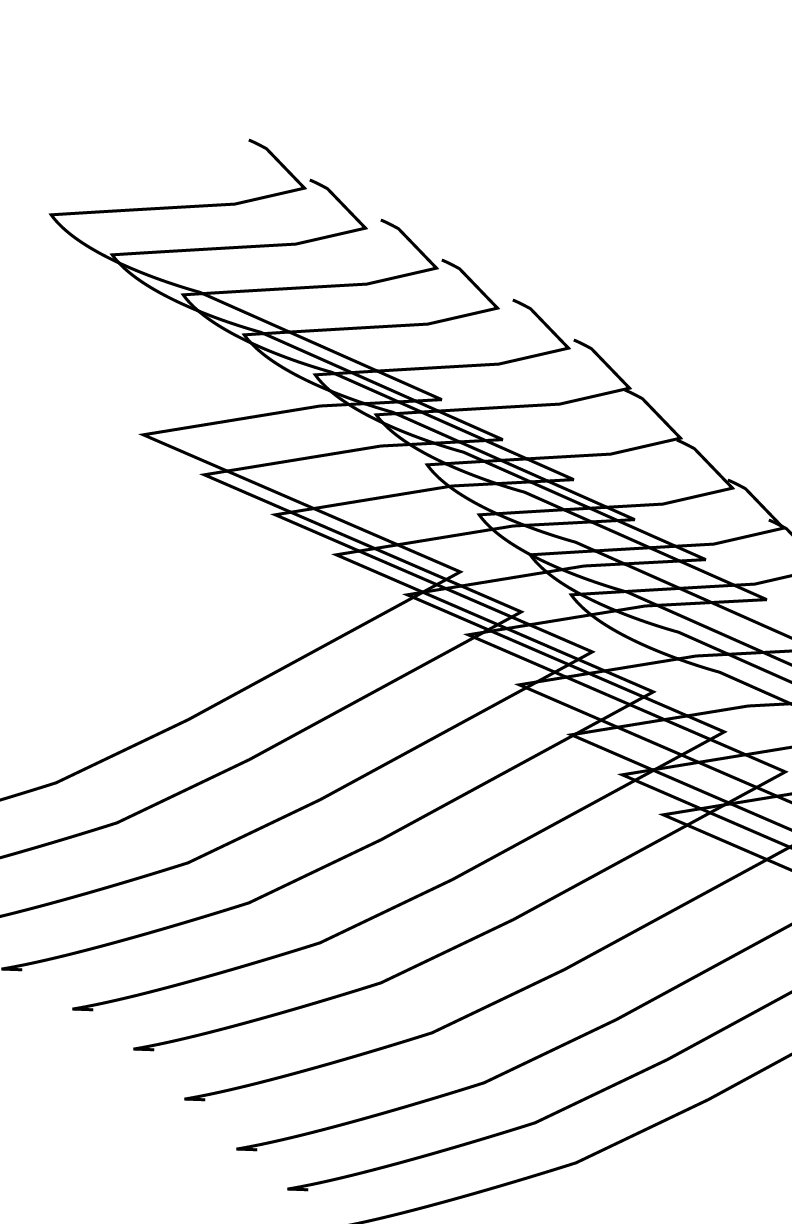
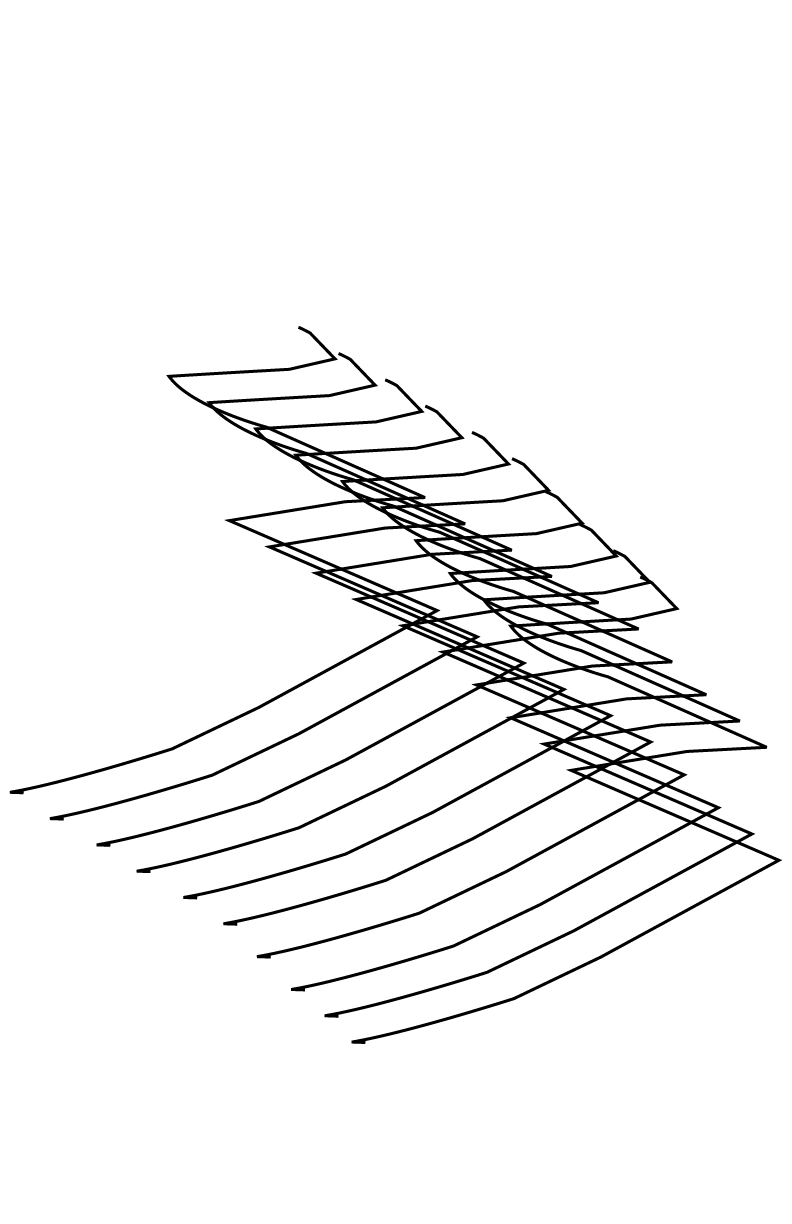
got it to work a little more smoothly

diff --git a/app.js b/app.js
@@ -2,73 +2,125 @@ var counter;
 
 
 $('body').keypress(function(e) { //ditects weather I pressed a key
-  console.log(e.keyCode); // keyCode is the actual key pressed
+    console.log(e.keyCode); // keyCode is the actual key pressed
 
 
-  if (counter < 8) { //see if the storage has less than 8 items in it
-    counter ++;
+    if (counter < 8) { //see if the storage has less than 8 items in it
+        counter++;
 
-    if (e.keyCode == 97) { // if any data is this # than ...	// console.log(data);
-		$("#image").append('<img src="images/letter.png">');} //add image}
-		if (e.keyCode == 98) {
-		$('#image2').append('<img src="images/letter2.png">');}
-    if (e.keyCode == 99) {
-  		$('#image3').append('<img src="images/letter3.png">');}
-    if (e.keyCode == 100) {
-      $('#image4').append('<img src="images/letter4.png">');}
-    if (e.keyCode == 101) {
-      $('#image').append('<img src="images/letter5.png">');}
-    if (e.keyCode == 102) {
-      $('#image2').append('<img src="images/letter6.png">');}
-    if (e.keyCode == 103) {
-      $('#image3').append('<img src="images/letter7.png">');}
-    if (e.keyCode == 104) {
-      $('#image4').append('<img src="images/letter8.png">');}
-    if (e.keyCode == 105) {
-      $('#image').append('<img src="images/letter9.png">');}
-    if (e.keyCode == 106) {
-      $('#image2').append('<img src="images/letter10.png">');}
-    if (e.keyCode == 107) {
-      $('#image3').append('<img src="images/letter11.png">');}
-    if (e.keyCode == 108) {
-      $('#image4').append('<img src="images/letter12.png">');}
-    if (e.keyCode == 109) {
-      $('#image').append('<img src="images/letter13.png">');}
-    if (e.keyCode == 110) {
-      $('#image1').append('<img src="images/letter14.png">');}
-      if (e.keyCode == 111) {
-        $('#image2').append('<img src="images/letter6.png">');}
-      if (e.keyCode == 112) {
-        $('#image3').append('<img src="images/letter7.png">');}
-      if (e.keyCode == 113) {
-        $('#image4').append('<img src="images/letter8.png">');}
-      if (e.keyCode == 114) {
-        $('#image').append('<img src="images/letter14.png">');}
-      if (e.keyCode == 115) {
-        $('#image2').append('<img src="images/letter13.png">');}
-      if (e.keyCode == 116) {
-        $('#image3').append('<img src="images/letter6.png">');}
-      if (e.keyCode == 117) {
-        $('#image4').append('<img src="images/letter7.png">');}
-      if (e.keyCode == 118) {
-        $('#image').append('<img src="images/letter8.png">');}
-      if (e.keyCode == 119) {
-        $('#image1').append('<img src="images/letter9.png">');}
+        if (e.keyCode == 97) { // if any data is this # than ...	// console.log(data);
+            $('#image').append('<img src="images/letter.png">');
+						$( 'img' ).css({"height":"60%","position":"fixed"} );
+        } //add image}
+        if (e.keyCode == 98) {
+            $('#image2').append('<img src="images/letter2.png">');
+							$( 'img' ).css({"height":"60%","position":"fixed"} );
+        }
+        if (e.keyCode == 99) {
+            $('#image3').append('<img src="images/letter3.png">');
+							$( 'img' ).css({"height":"60%","position":"fixed"} );
+        }
+        if (e.keyCode == 100) {
+            $('#image4').append('<img src="images/letter4.png">');
+							$( 'img' ).css({"height":"60%","position":"fixed"} );
+        }
+        if (e.keyCode == 101) {
+            $('#image').append('<img src="images/letter5.png">');
+							$( 'img' ).css({"height":"60%","position":"fixed"} );
+        }
+        if (e.keyCode == 102) {
+            $('#image2').append('<img src="images/letter6.png">');
+							$( 'img' ).css({"height":"60%","position":"fixed"} );
+        }
+        if (e.keyCode == 103) {
+            $('#image3').append('<img src="images/letter7.png">');
+							$( 'img' ).css({"height":"60%","position":"fixed"} );
+        }
+        if (e.keyCode == 104) {
+            $('#image4').append('<img src="images/letter8.png">');
+							$( 'img' ).css({"height":"60%","position":"fixed"} );
+        }
+        if (e.keyCode == 105) {
+            $('#image').append('<img src="images/letter9.png">');
+							$( 'img' ).css({"height":"60%","position":"fixed"} );
+        }
+        if (e.keyCode == 106) {
+            $('#image2').append('<img src="images/letter10.png">');
+							$( 'img' ).css({"height":"60%","position":"fixed"} );
+        }
+        if (e.keyCode == 107) {
+            $('#image3').append('<img src="images/letter11.png">');
+							$( 'img' ).css({"height":"60%","position":"fixed"} );
+        }
+        if (e.keyCode == 108) {
+            $('#image4').append('<img src="images/letter12.png">');
+							$( 'img' ).css({"height":"60%","position":"fixed"} );
+        }
+        if (e.keyCode == 109) {
+            $('#image').append('<img src="images/letter13.png">');
+							$( 'img' ).css({"height":"60%","position":"fixed"} );
+        }
+        if (e.keyCode == 110) {
+            $('#image2').append('<img src="images/letter14.png">');
+							$( 'img' ).css({"height":"60%","position":"fixed"} );
+        }
+        if (e.keyCode == 111) {
+            $('#image3').append('<img src="images/letter15.png">');
+							$( 'img' ).css({"height":"60%","position":"fixed"} );
+        }
+        if (e.keyCode == 112) {
+            $('#image4').append('<img src="images/letter16.png">');
+							$( 'img' ).css({"height":"60%","position":"fixed"} );
+        }
+        if (e.keyCode == 113) {
+            $('#image').append('<img src="images/letter17.png">');
+							$( 'img' ).css({"height":"60%","position":"fixed"} );
+        }
+        if (e.keyCode == 114) {
+            $('#image2').append('<img src="images/letter18.png">');
+							$( 'img' ).css({"height":"60%","position":"fixed"} );
+        }
+        if (e.keyCode == 115) {
+            $('#image2').append('<img src="images/letter19.png">');
+							$( 'img' ).css({"height":"60%","position":"fixed"} );
+        }
+        if (e.keyCode == 116) {
+            $('#image3').append('<img src="images/letter20.png">');
+							$( 'img' ).css({"height":"60%","position":"fixed"} );
+        }
+        if (e.keyCode == 117) {
+            $('#image4').append('<img src="images/letter21.png">');
+							$( 'img' ).css({"height":"60%","position":"fixed"} );
+        }
+        if (e.keyCode == 118) {
+            $('#image').append('<img src="images/letter22.png">');
+							$( 'img' ).css({"height":"60%","position":"fixed"} );
+        }
+        if (e.keyCode == 119) {
+            $('#image2').append('<img src="images/letter23.png">');
+							$( 'img' ).css({"height":"60%","position":"fixed"} );
+        }
         if (e.keyCode == 120) {
-          $('#image4').append('<img src="images/letter10.png">');}
+            $('#image3').append('<img src="images/letter24.png">');
+							$( 'img' ).css({"height":"60%","position":"fixed"} );
+        }
         if (e.keyCode == 121) {
-          $('#image').append('<img src="images/letter11.png">');}
+            $('#image4').append('<img src="images/letter25.png">');
+							$( 'img' ).css({"height":"60%","position":"fixed"} );
+        }
         if (e.keyCode == 122) {
-          $('#image1').append('<img src="images/letter12.png">');}
+            $('#image2').append('<img src="images/letter26.png">');
+							$( 'img' ).css({"height":"60%","position":"fixed"} );
+        }
 
 
-  } else { // since not less than 8 .. reset
-counter=0;
-    $('#image').empty(); // clear all images in tag
-		$('#image2').empty();
-		$('#image3').empty();
-		$('#image4').empty();
-	}
+    } else { // since not less than 8 .. reset
+        counter = 0;
+        $('#image').empty(); // clear all images in tag
+        $('#image2').empty();
+        $('#image3').empty();
+        $('#image4').empty();
+    }
 
 });
 

diff --git a/main.css b/main.css
@@ -1,62 +1,31 @@
 html {
     box-sizing: border-box;
-		height: 80%;
-   width: 80%;
 }
 
 *, *::before, *:after {
     box-sizing: inherit;
 }
 img{
-
-	width: 50%;
+	filter:opacity(75%);
 }
 body {
-	/*display: flex;
-	flex-flow: row;
-	flex-wrap: wrap;
-	align-items: flex-start;*/
-	/*height: 100%;
-	   width: 100%;*/
-    overflow: hidden;
+width: auto;
+height: auto;
+	margin:10px;
 }
 
-/*.container {
+.container {
+	position: fixed
 margin: 0 auto;
-width: 100%;
-}*/
+height: 1000px;
+width:
+}
 
 #image, #image2{
-	height: 25%;
-		display:inline-block;
-		position:fixed;
+		margin-left: 10px;
+		margin-top: 10px;
 }
 #image3, #image4 {
-		height: 25%;
-		display: inline-block;
-		position:fixed;
+		margin-left: 30%;
+		margin-top: 10px;
 }
-
-
-/*#image img {
-	display: inline-block;
-		position:fixed;
-	  height: 50%;}
-
-#image2 img {
-		position:fixed;
-	  height: 50%;
-}*/
-
-/*#image3 img {
-		display: inline-block;
-		position:fixed;
-	  height: 50%;
-
-}
-
-#image4 img {
-		display: inline-block;
-		position:fixed;
-	  height: 50%;
-}*/

diff --git a/index.html b/index.html
@@ -11,18 +11,19 @@
 <body>
 	<div class="container">
 
+
 		<div id="image">
 		</div>
+
 		<div id="image2">
 		</div>
 
 		<div id="imag3">
 		</div>
+
 		<div id="image4">
 		</div>
-
 	</div>
-
 </body>
 
 
